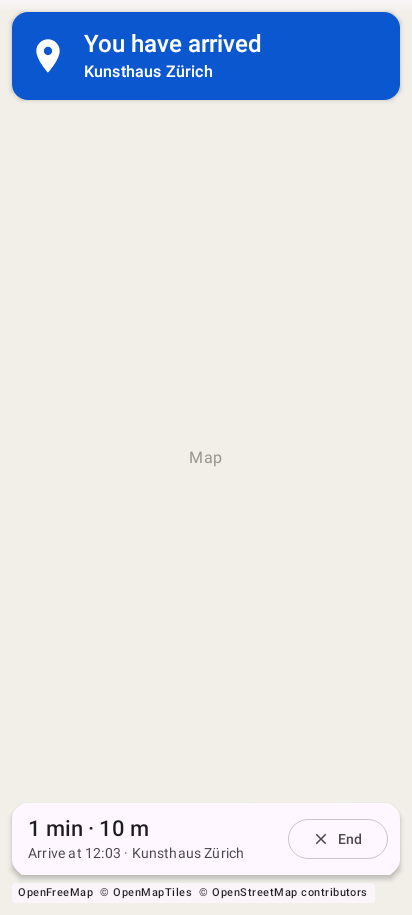
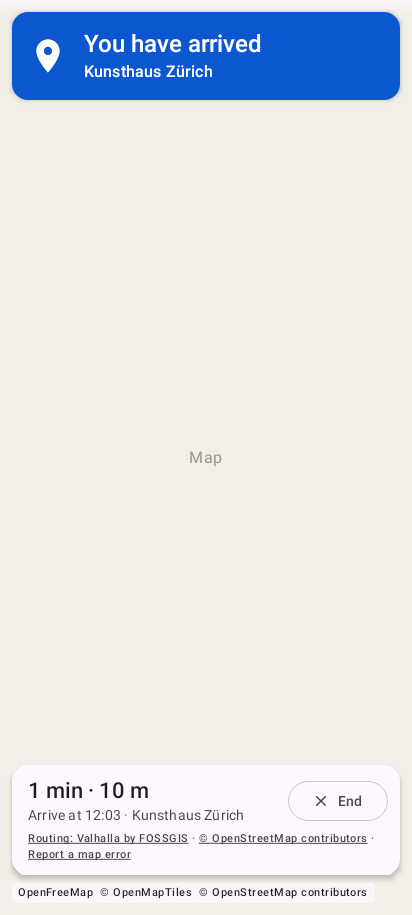
fix(routing): a touch on the map no longer ends the guidance, and the guidance bar credits the routing server
While a route guides the user, a tap on a label, a Pubky place, a bookmark pin
or another search result, or a long-press, opens no place (it closed the
route's directions and so ended the guidance). The guidance bar shows the
routing server's credits and Report a map error, as the route card does.

Changed region(s): [[0.0583, 0.8568, 0.9029, 0.9486]]

diff --git a/shared/src/commonMain/kotlin/to/pubky/maps/map/MapRoute.kt b/shared/src/commonMain/kotlin/to/pubky/maps/map/MapRoute.kt
@@ -227,6 +227,19 @@ fun MapRoute(
     val routePoints by rememberUpdatedState(foundRoute?.route?.points)
     val markedStep by rememberUpdatedState(directionsState?.markedStep?.at)
     val routeStart by rememberUpdatedState(directionsState?.from?.point)
+    // While a route guides the user a touch on the map opens no place: another place closes the route's
+    // directions, and at zoom 17 in a town the map is all labels and pins (Pubky places, bookmarks, the
+    // other search results), easily touched by mistake.
+    // Panning still works (it stops the map following, Re-centre follows again), as in Google Maps' and
+    // CoMaps' navigation. A place a link opens is asked for, and still ends the guidance.
+    val guiding by rememberUpdatedState(directionsState?.guiding == true)
+
+    fun openTapped(place: PlaceRef) {
+        if (guiding) return
+        search?.controller?.close()
+        onClosePlace()
+        tapped = place
+    }
     // Pins while search is open; the picked result also when its card shows.
     val searchPins by rememberUpdatedState(searchState?.takeIf { it.mode != SearchMode.Idle })
     val mapState =
@@ -248,21 +261,13 @@ fun MapRoute(
                     pubkyPois,
                     poiTiles.icons,
                     dark = dark,
-                    onSelect = { place ->
-                        search?.controller?.close()
-                        onClosePlace()
-                        tapped = place.toPlaceRef()
-                    },
+                    onSelect = { place -> openTapped(place.toPlaceRef()) },
                 )
             }
             if (pubkyPois.dots.isNotEmpty()) {
                 MapPlacesPins(
                     pubkyPois.dots,
-                    onSelect = { place ->
-                        search?.controller?.close()
-                        onClosePlace()
-                        tapped = place.toPlaceRef()
-                    },
+                    onSelect = { place -> openTapped(place.toPlaceRef()) },
                     onCluster = { clusterTarget = it },
                 )
             }
@@ -270,18 +275,14 @@ fun MapRoute(
             if (savedPins.isNotEmpty()) {
                 SavedPins(
                     savedPins,
-                    onSelect = { entry ->
-                        search?.controller?.close()
-                        onClosePlace()
-                        tapped = entry.toPlaceRef()
-                    },
+                    onSelect = { entry -> openTapped(entry.toPlaceRef()) },
                 )
             }
             pinnedPoint?.let { PlacePin(it) }
             // Above the place's pin: the route's last step (its first, swapped) is at the place.
             markedStep?.let { RouteStepMark(it) }
             searchPins?.let { pins ->
-                if (search != null) SearchPins(pins.results, pins.selected, onSelect = search.controller::select)
+                if (search != null) SearchPins(pins.results, pins.selected, onSelect = { if (!guiding) search.controller.select(it) })
             }
         }
 
@@ -578,7 +579,14 @@ fun MapRoute(
             ?.title
     val guidance =
         directions?.let {
-            rememberGuidance(it, directionsState, pageTitle ?: shown?.place?.title ?: "the place", locationState, mapState)
+            rememberGuidance(
+                it,
+                directionsState,
+                pageTitle ?: shown?.place?.title ?: "the place",
+                locationState,
+                mapState,
+                credits = routeCredits(servers, foundRoute?.server),
+            )
         }
     // The area on screen goes offline in the style on screen and the other theme's of the same server.
     val areaPicker =
@@ -660,13 +668,8 @@ fun MapRoute(
                         callbacks {
                             click {
                                 onUnhandled { event ->
-                                    if (places != null) {
-                                        scope.launch {
-                                            val poi = mapState.tappedPoi(event.screenOffset) ?: return@launch
-                                            search?.controller?.close()
-                                            onClosePlace()
-                                            tapped = poi
-                                        }
+                                    if (places != null && !guiding) {
+                                        scope.launch { mapState.tappedPoi(event.screenOffset)?.let(::openTapped) }
                                     }
                                     ClickResult.Pass
                                 }
@@ -676,11 +679,9 @@ fun MapRoute(
                                 onEvent { event ->
                                     // No position while the map cannot yet convert screen points.
                                     val at = event.position
-                                    if (places == null || pickingArea || at == null) return@onEvent ClickResult.Pass
+                                    if (places == null || pickingArea || guiding || at == null) return@onEvent ClickResult.Pass
                                     haptics.performHapticFeedback(HapticFeedbackType.LongPress)
-                                    search?.controller?.close()
-                                    onClosePlace()
-                                    tapped = droppedPin(at.latitude, at.longitude)
+                                    openTapped(droppedPin(at.latitude, at.longitude))
                                     ClickResult.Consume
                                 }
                             }

diff --git a/shared/src/commonMain/kotlin/to/pubky/maps/routing/GuidanceViews.kt b/shared/src/commonMain/kotlin/to/pubky/maps/routing/GuidanceViews.kt
@@ -26,6 +26,7 @@ import androidx.compose.ui.semantics.liveRegion
 import androidx.compose.ui.semantics.semantics
 import androidx.compose.ui.text.font.FontWeight
 import androidx.compose.ui.unit.dp
+import to.pubky.maps.config.AttributionLink
 import to.pubky.maps.search.formatDistance
 import to.pubky.maps.ui.AppIcons
 import to.pubky.maps.ui.MapSurfaces
@@ -44,6 +45,8 @@ data class GuidanceUi(
     /** Asks for a new route from the user's position: off the route, or after a new route was not found. */
     val onRouteAgain: () -> Unit,
     val onEnd: () -> Unit,
+    /** The routing server's credits and the link to report a map error, as under the route on its card. */
+    val credits: List<AttributionLink>,
 )
 
 /**
@@ -169,7 +172,8 @@ fun GuidanceBanner(
 
 /**
  * The bar under the map while a route guides the user: the time and the way left and when they get
- * there, End, and Re-centre once they moved the map away from where they are.
+ * there, End, the routing server's credits under them while its route is on the map, and Re-centre
+ * once they moved the map away from where they are.
  */
 @Composable
 fun GuidanceBar(
@@ -191,28 +195,31 @@ fun GuidanceBar(
             border = MapSurfaces.edge,
             shadowElevation = 3.dp,
         ) {
-            Row(Modifier.padding(start = 16.dp, end = 12.dp, top = 12.dp, bottom = 12.dp), verticalAlignment = Alignment.CenterVertically) {
-                Column(Modifier.weight(1f)) {
-                    val left = guidanceLeftText(ui.directions)
-                    Text(
-                        left ?: ui.directions.mode.phrase
-                            .replaceFirstChar { it.uppercase() },
-                        style = MaterialTheme.typography.titleLarge,
-                        fontWeight = FontWeight.Medium,
-                    )
-                    val arrival = ui.arrival?.takeIf { left != null }
-                    Text(
-                        if (arrival != null) "Arrive at $arrival · ${ui.placeName}" else ui.placeName,
-                        style = MaterialTheme.typography.bodyMedium,
-                        color = MaterialTheme.colorScheme.onSurfaceVariant,
-                    )
+            Column(Modifier.padding(start = 16.dp, end = 12.dp, top = 12.dp, bottom = 12.dp)) {
+                Row(verticalAlignment = Alignment.CenterVertically) {
+                    Column(Modifier.weight(1f)) {
+                        val left = guidanceLeftText(ui.directions)
+                        Text(
+                            left ?: ui.directions.mode.phrase
+                                .replaceFirstChar { it.uppercase() },
+                            style = MaterialTheme.typography.titleLarge,
+                            fontWeight = FontWeight.Medium,
+                        )
+                        val arrival = ui.arrival?.takeIf { left != null }
+                        Text(
+                            if (arrival != null) "Arrive at $arrival · ${ui.placeName}" else ui.placeName,
+                            style = MaterialTheme.typography.bodyMedium,
+                            color = MaterialTheme.colorScheme.onSurfaceVariant,
+                        )
+                    }
+                    Spacer(Modifier.width(12.dp))
+                    OutlinedButton(onClick = ui.onEnd) {
+                        Icon(AppIcons.Close, contentDescription = null, modifier = Modifier.size(18.dp))
+                        Spacer(Modifier.width(8.dp))
+                        Text("End")
+                    }
                 }
-                Spacer(Modifier.width(12.dp))
-                OutlinedButton(onClick = ui.onEnd) {
-                    Icon(AppIcons.Close, contentDescription = null, modifier = Modifier.size(18.dp))
-                    Spacer(Modifier.width(8.dp))
-                    Text("End")
-                }
+                if (ui.directions.status is RouteStatus.Found) RouteCredits(ui.credits)
             }
         }
     }

diff --git a/androidApp/src/test/kotlin/to/pubky/maps/android/GuidanceViewsTest.kt b/androidApp/src/test/kotlin/to/pubky/maps/android/GuidanceViewsTest.kt
@@ -13,7 +13,9 @@ import org.junit.Test
 import org.junit.runner.RunWith
 import org.robolectric.RobolectricTestRunner
 import org.robolectric.annotation.Config
+import to.pubky.maps.config.ServerDefaults
 import to.pubky.maps.links.GeoPoint
+import to.pubky.maps.map.routeCredits
 import to.pubky.maps.place.PlaceHeader
 import to.pubky.maps.place.PlacePageActions
 import to.pubky.maps.place.PlacePageContext
@@ -35,7 +37,7 @@ import to.pubky.maps.ui.PubkyMapsTheme
 /**
  * Start on a found route's card (only for a route from the user's position to the place), and what
  * the guidance banner and bar do: End, Find a new route off the route, Re-centre once the user moved
- * the map.
+ * the map, the routing server's credits.
  */
 @RunWith(RobolectricTestRunner::class)
 @Config(qualifiers = "w412dp-h915dp")
@@ -130,6 +132,7 @@ class GuidanceViewsTest {
                         onRecenter = { recentred++ },
                         onRouteAgain = { again++ },
                         onEnd = { ended++ },
+                        credits = routeCredits(ServerDefaults.lists, found.server),
                     )
                 androidx.compose.foundation.layout.Column {
                     GuidanceBanner(ui)
@@ -150,6 +153,12 @@ class GuidanceViewsTest {
         compose.onNodeWithText("Find a new route").assertDoesNotExist()
         compose.onNodeWithText("End").performClick()
         assertEquals(1, ended)
+    }
+
+    @Test
+    fun theBarCreditsTheRoutingServerAndNamesReportAMapError() {
+        guiding(onTheWay, following = true)
+        compose.onNodeWithText("Routing: Valhalla by FOSSGIS · © OpenStreetMap contributors · Report a map error").assertExists()
     }
 
     @Test

diff --git a/shared/src/commonMain/kotlin/to/pubky/maps/map/GuidanceRoute.kt b/shared/src/commonMain/kotlin/to/pubky/maps/map/GuidanceRoute.kt
@@ -24,6 +24,7 @@ import org.maplibre.compose.map.MapState
 import org.maplibre.compose.util.DpPadding
 import org.maplibre.spatialk.geojson.Position
 import org.maplibre.spatialk.units.extensions.inMeters
+import to.pubky.maps.config.AttributionLink
 import to.pubky.maps.links.GeoPoint
 import to.pubky.maps.routing.Directions
 import to.pubky.maps.routing.DirectionsController
@@ -59,6 +60,7 @@ internal fun rememberGuidance(
     placeName: String,
     locationState: LocationState,
     mapState: MapState,
+    credits: List<AttributionLink>,
 ): GuidanceUi? {
     val guiding = open?.guiding == true
     var following by remember { mutableStateOf(true) }
@@ -130,6 +132,7 @@ internal fun rememberGuidance(
         onRecenter = { following = true },
         onRouteAgain = { locationState.lastLocation?.let { directions.routeAgainFrom(it.point) } },
         onEnd = directions::endGuidance,
+        credits = credits,
     )
 }
 

diff --git a/androidApp/src/test/kotlin/to/pubky/maps/android/GuidanceScreenshotTest.kt b/androidApp/src/test/kotlin/to/pubky/maps/android/GuidanceScreenshotTest.kt
@@ -23,6 +23,7 @@ import org.robolectric.annotation.GraphicsMode
 import to.pubky.maps.config.ServerDefaults
 import to.pubky.maps.links.GeoPoint
 import to.pubky.maps.map.MapScreen
+import to.pubky.maps.map.routeCredits
 import to.pubky.maps.routing.Directions
 import to.pubky.maps.routing.GuidanceUi
 import to.pubky.maps.routing.Route
@@ -120,6 +121,7 @@ class GuidanceScreenshotTest {
         onRecenter = {},
         onRouteAgain = {},
         onEnd = {},
+        credits = routeCredits(ServerDefaults.lists, (status as? RouteStatus.Found)?.server),
     )
 
     @Composable

diff --git a/shared/src/commonMain/kotlin/to/pubky/maps/routing/DirectionsViews.kt b/shared/src/commonMain/kotlin/to/pubky/maps/routing/DirectionsViews.kt
@@ -401,7 +401,7 @@ fun RouteStepList(
 
 /** The routing server's credits, each a link. */
 @Composable
-private fun RouteCredits(credits: List<AttributionLink>) {
+internal fun RouteCredits(credits: List<AttributionLink>) {
     if (credits.isEmpty()) return
     val openLink = rememberSafeLinkOpener()
     val styles =

diff --git a/README.md b/README.md
@@ -187,16 +187,18 @@ place, or closing the page, ends them. Without a position, a route or a
 server, the page says which is missing (with Settings when location access is off for good), and
 every server failing names routing in the map's line of missing parts.
 
-**Start** on a route from the user's position to the place (not one from a chosen start or back to
-the user) guides them along it, as Google Maps' Start: the page gives way to a banner on top with the
-next turn's icon, how far it is ("150 m", "Now" under 10 m) and Valhalla's sentence for it, and a bar
-at the bottom with the time and the way left, when they get there and End. Each position is put on
-the route's line (of two parts about as near, as on a street the route comes back along, the one
-closest to where the user was on it, so one fix that jumped ahead is undone by the next); the map follows the user at zoom 17, turned the way the route goes, with them low on
-the screen, until they move it (Re-centre follows again), and the screen stays on. More than 50 m from
-the line (or the fix's own accuracy, when worse) the banner says the user is off the route, with Find
-a new route, which asks for one from where they are and guides on along it; within 25 m of the end it
-says they have arrived. Back or End ends the guidance: the route card is back and the map turns north.
+**Start** on a route from the user's position to the place (not one from a chosen start or back to the
+user) guides them along it, as Google Maps' Start: the page gives way to a banner on top with the next
+turn's icon, how far it is ("150 m", "Now" under 10 m) and Valhalla's sentence for it, and a bar at the
+bottom with the time and the way left, when they get there and End, over the routing server's credits
+and Report a map error. Each position is put on the route's line (of two parts about as near, as on a
+street the route comes back along, the one closest to where the user was on it, so one fix that jumped
+ahead is undone by the next); the map follows the user at zoom 17, turned the way the route goes, with
+them low on the screen, until they move it (Re-centre follows again), and the screen stays on. More
+than 50 m from the line (or the fix's own accuracy, when worse) the banner says the user is off the
+route, with Find a new route, which asks for one from where they are and guides on along it; within
+25 m of the end it says they have arrived. While it guides, a tap or long-press on the map opens no place
+(panning works). Back or End ends the guidance: the route card is back and the map turns north.
 Guidance does not speak or find a new route by itself, and a new route needs a connection.
 
 **Report a map problem** at the end of a place page (also of a dropped pin) opens a note to
